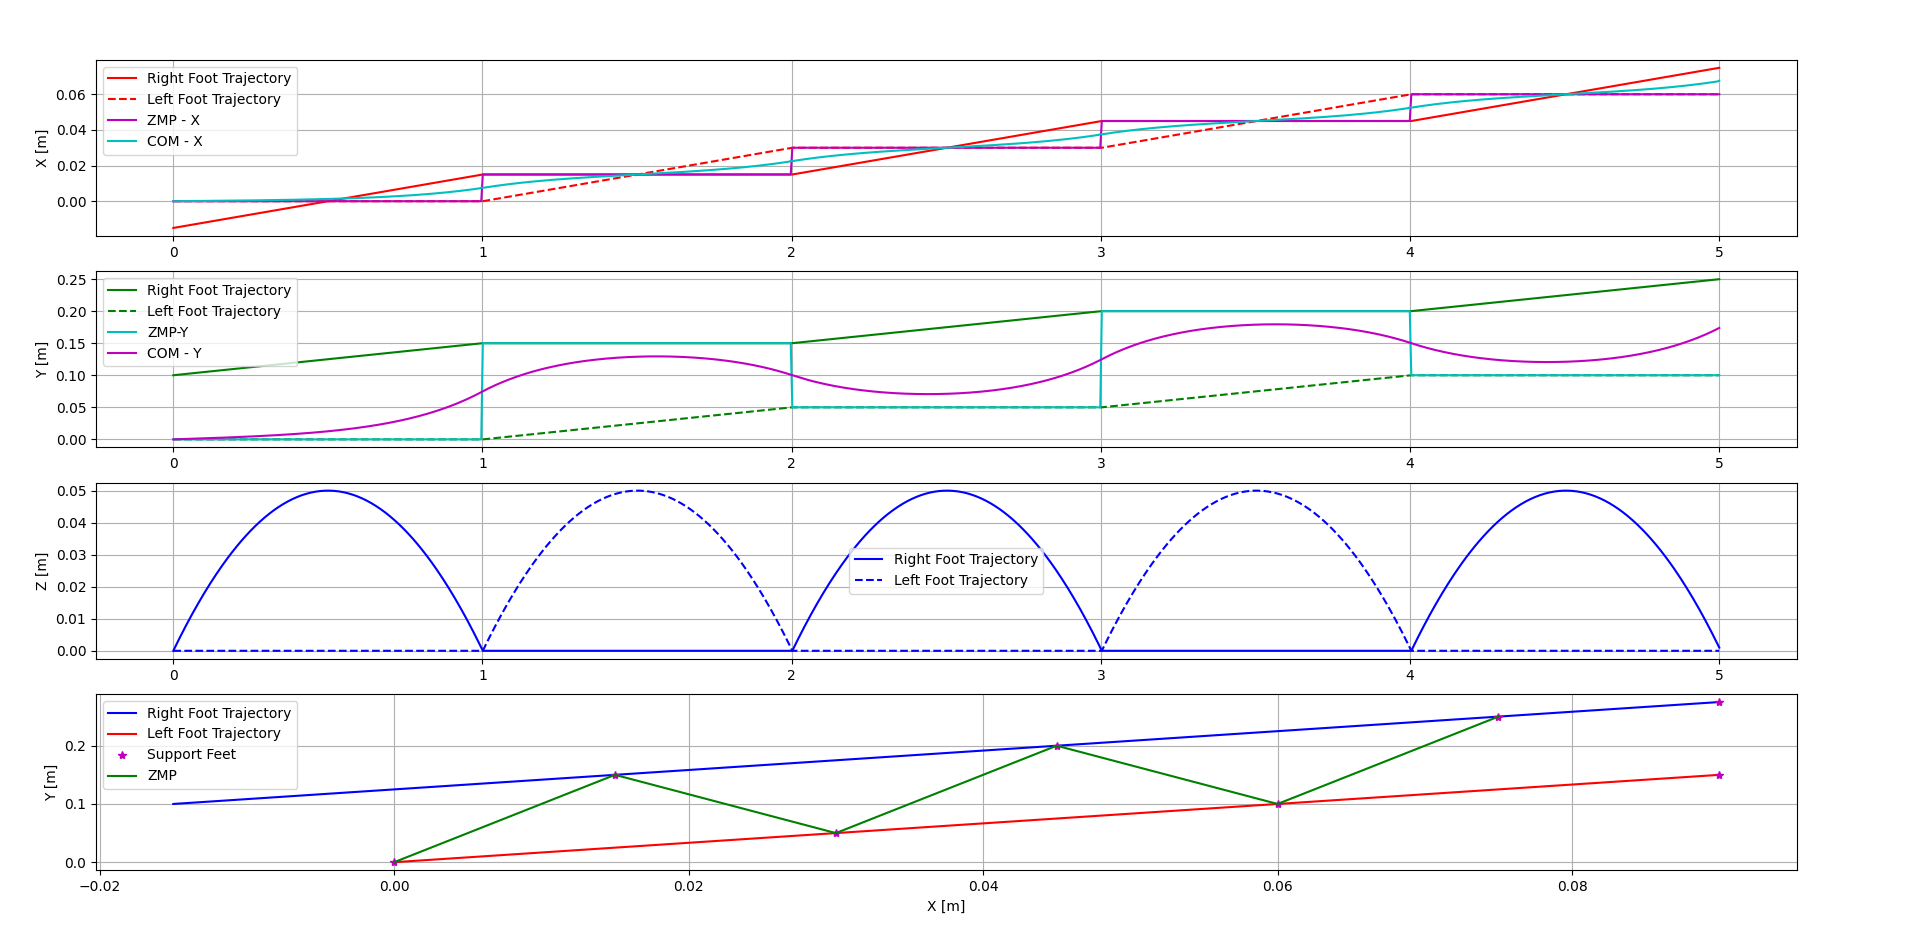
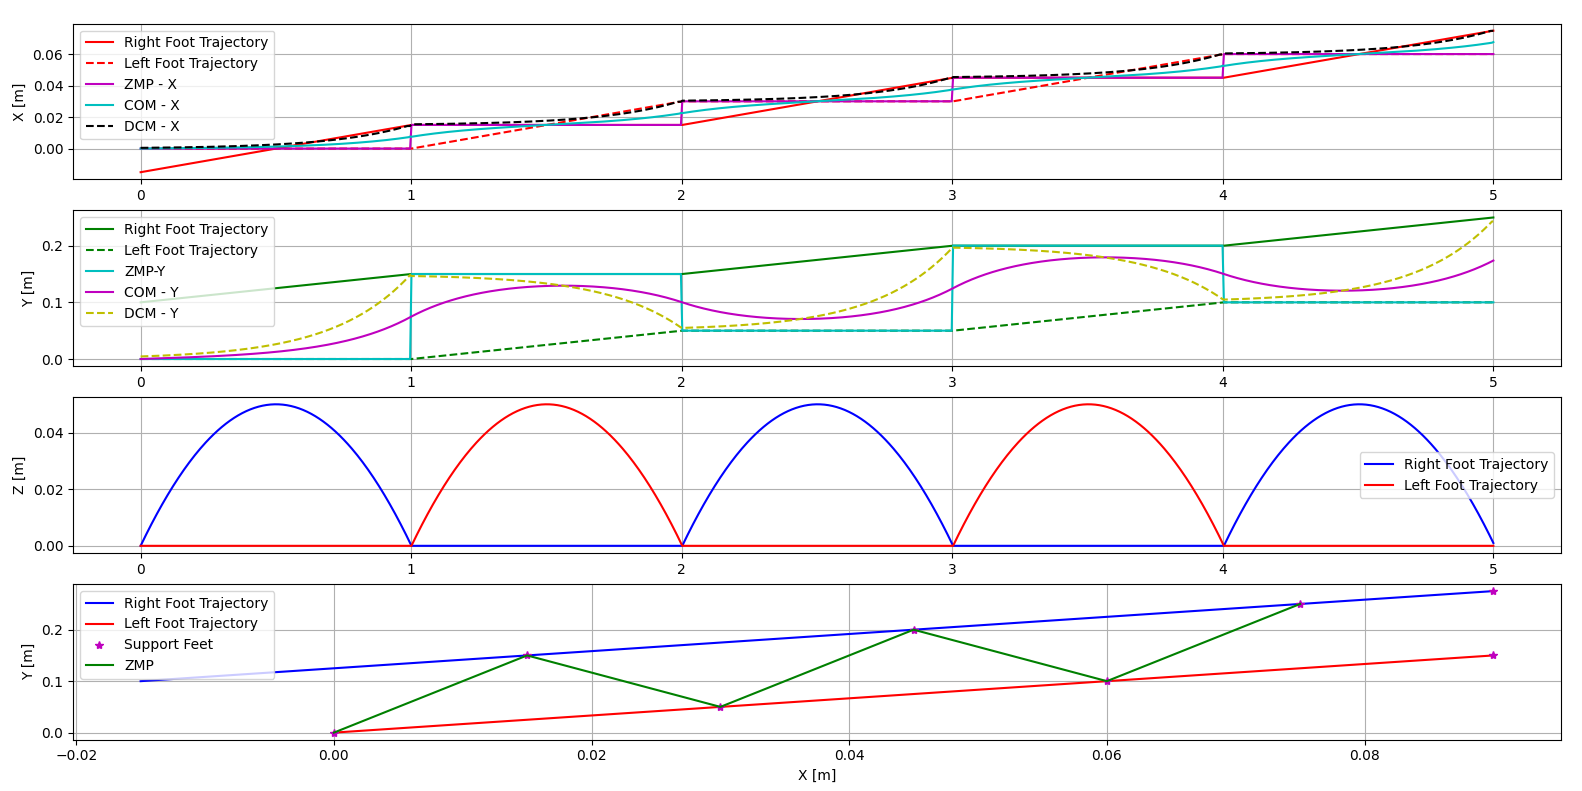
DCM Genrator, update readme

diff --git a/test_modules.py b/test_modules.py
@@ -10,7 +10,7 @@ from walkEngine.FootStepPlanner import FootStepPlanner
 from walkEngine.ZMPGenerator import ZMPGenerator 
 from walkEngine.COMGenerator import COMGenerator 
 from walkEngine.FeetGenerator import FootPositionGenerator 
-
+from walkEngine.DCMGenerator import DCMGenerator
 
 if __name__ == "__main__":
 
@@ -46,6 +46,10 @@ if __name__ == "__main__":
         com_height_amp=0.0, z_0=0.8
     )
     com_gen.plot()
+    
+    dcm_gen = DCMGenerator(z_0=0.8, dt=0.005)
+    dcm_x, dcm_y = dcm_gen.generate(com_gen.com_x,com_gen.com_y)
+    
 
     paths = planner.get_paths()
     right = [Foot(x, y, 0.0) for x, y in paths["right_foot"]]
@@ -73,6 +77,7 @@ if __name__ == "__main__":
     ax[0].plot(t, lx[:tf], 'r--', label='Left Foot Trajectory')
     ax[0].plot(t, zmp_gen.zmp_x[:tf], 'm-', label='ZMP - X')
     ax[0].plot(t, com_gen.com_x[:tf], 'c-', label='COM - X')
+    ax[0].plot(t, dcm_x[:tf], 'k--', label='DCM - X')
     ax[0].set_ylabel("X [m]")
     
     
@@ -80,10 +85,11 @@ if __name__ == "__main__":
     ax[1].plot(t, ly[:tf], 'g--', label='Left Foot Trajectory')
     ax[1].plot(t, zmp_gen.zmp_y[:tf], 'c-', label='ZMP-Y')
     ax[1].plot(t, com_gen.com_y[:tf], 'm-', label='COM - Y')
+    ax[1].plot(t, dcm_y[:tf], 'y--', label='DCM - Y')
     ax[1].set_ylabel("Y [m]")
     
     ax[2].plot(t, rz[:tf], 'b-', label='Right Foot Trajectory')
-    ax[2].plot(t, lz[:tf], 'b--', label='Left Foot Trajectory')
+    ax[2].plot(t, lz[:tf], 'r-', label='Left Foot Trajectory')
     ax[2].set_ylabel("Z [m]")
     
     ax[3].plot(rx,ry, 'b-', label='Right Foot Trajectory')

diff --git a/walkEngine/DCMGenerator.py b/walkEngine/DCMGenerator.py
@@ -1,0 +1,33 @@
+import numpy as np
+
+class DCMGenerator:
+    def __init__(self, g=9.81, z_0=0.8, dt=0.005):
+        self.omega_0 = np.sqrt(g / z_0)
+        self.dt = dt
+
+    def generate(self, com_x, com_y):
+        dcm_x = []
+        dcm_y = []
+        dxp,dyp = 0.0, 0.0 
+        for i in range(len(com_x)-1):
+            dx = (com_x[i+1] - com_x[i]) / self.dt
+            dy = (com_y[i+1] - com_y[i]) / self.dt
+            if abs(dx-dxp)<0.03:
+                dcm_x.append(com_x[i] + dx / self.omega_0)
+                dxp = dx
+            else:
+                dcm_x.append(dcm_x[-1])
+            
+            if abs(dy-dyp)<0.03:
+                dcm_y.append(com_y[i] + dy / self.omega_0)
+                dyp = dy    
+            else:
+                dcm_y.append(dcm_y[-1])
+            
+            
+        # Repeat last value to match size
+        dcm_x.append(dcm_x[-1])
+        dcm_y.append(dcm_y[-1])
+        self.dcm_x = dcm_x
+        self.dcm_y = dcm_y
+        return dcm_x, dcm_y
